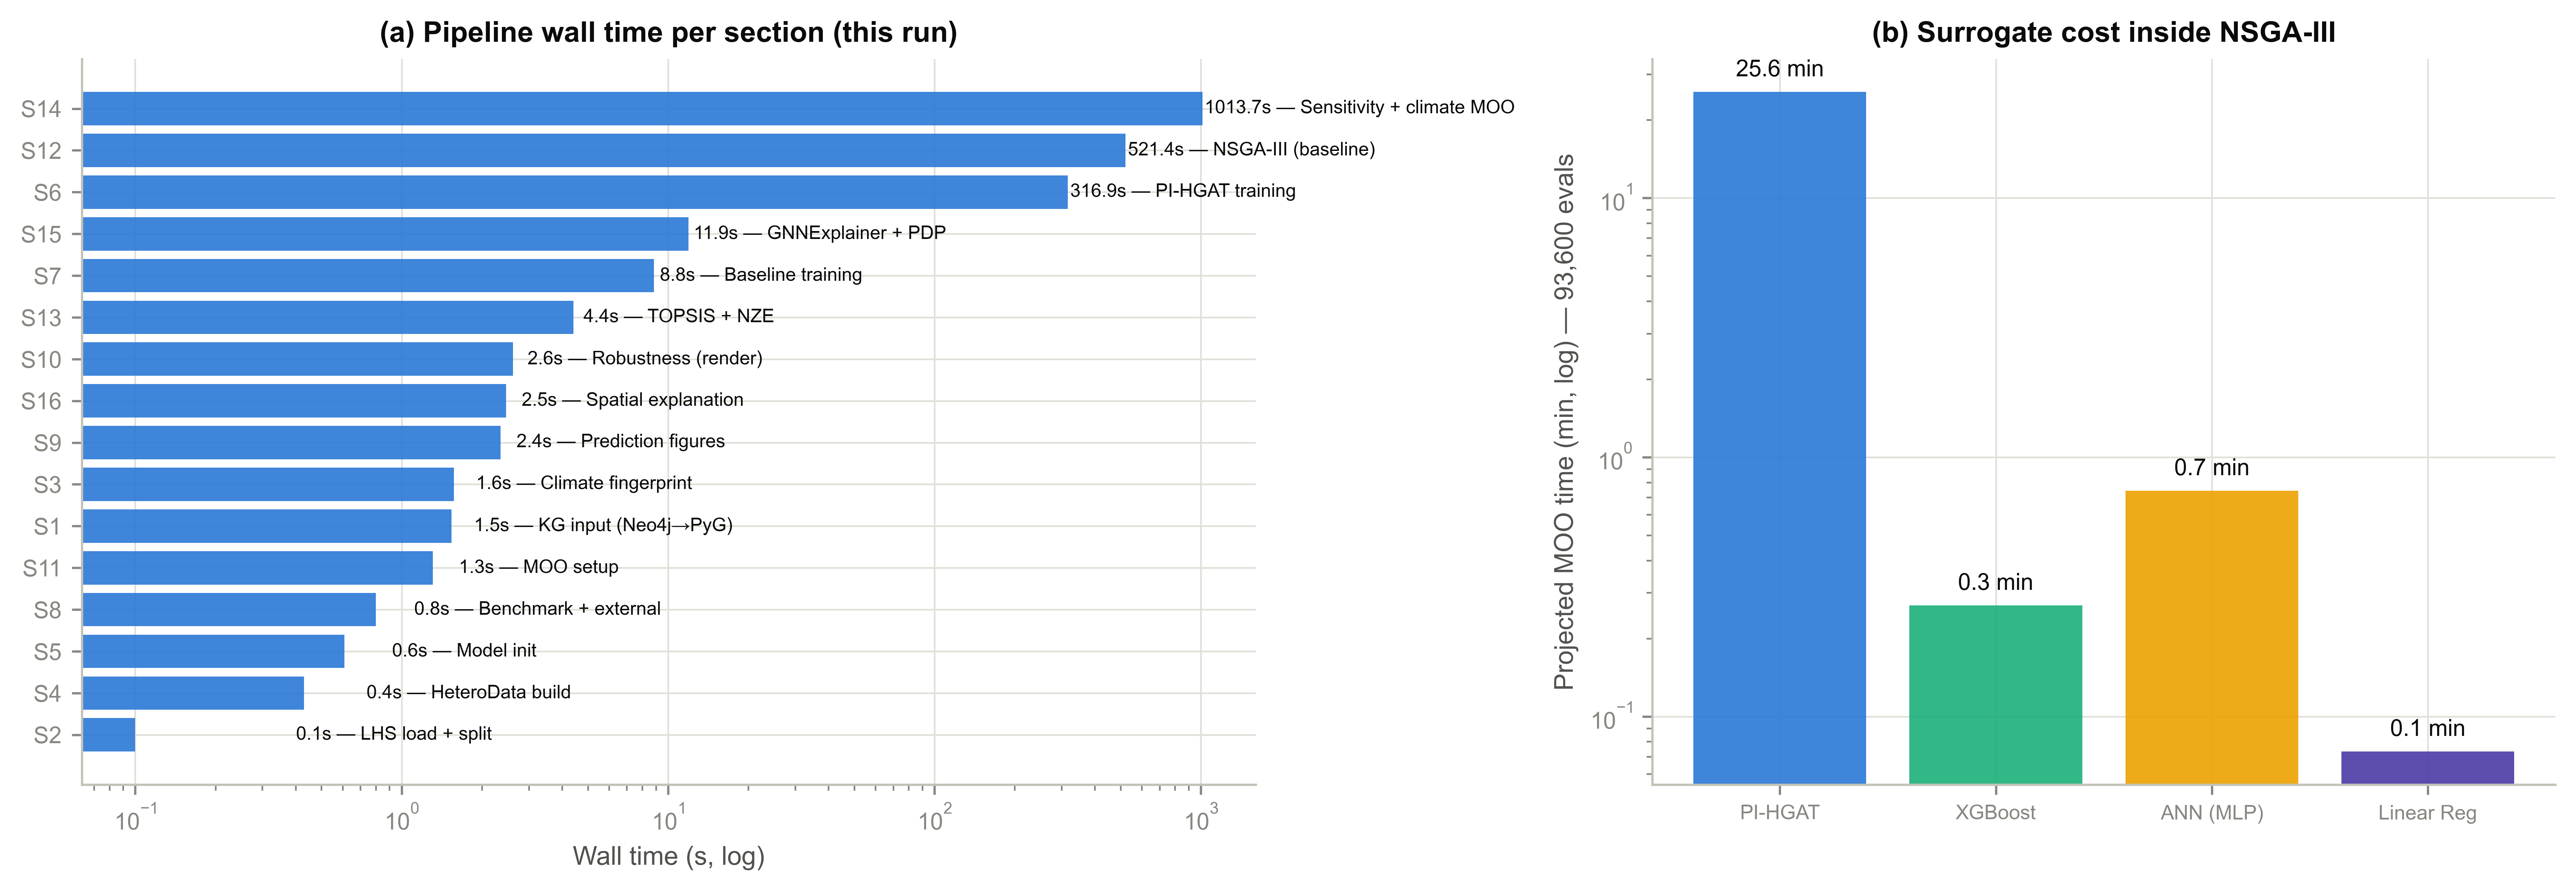
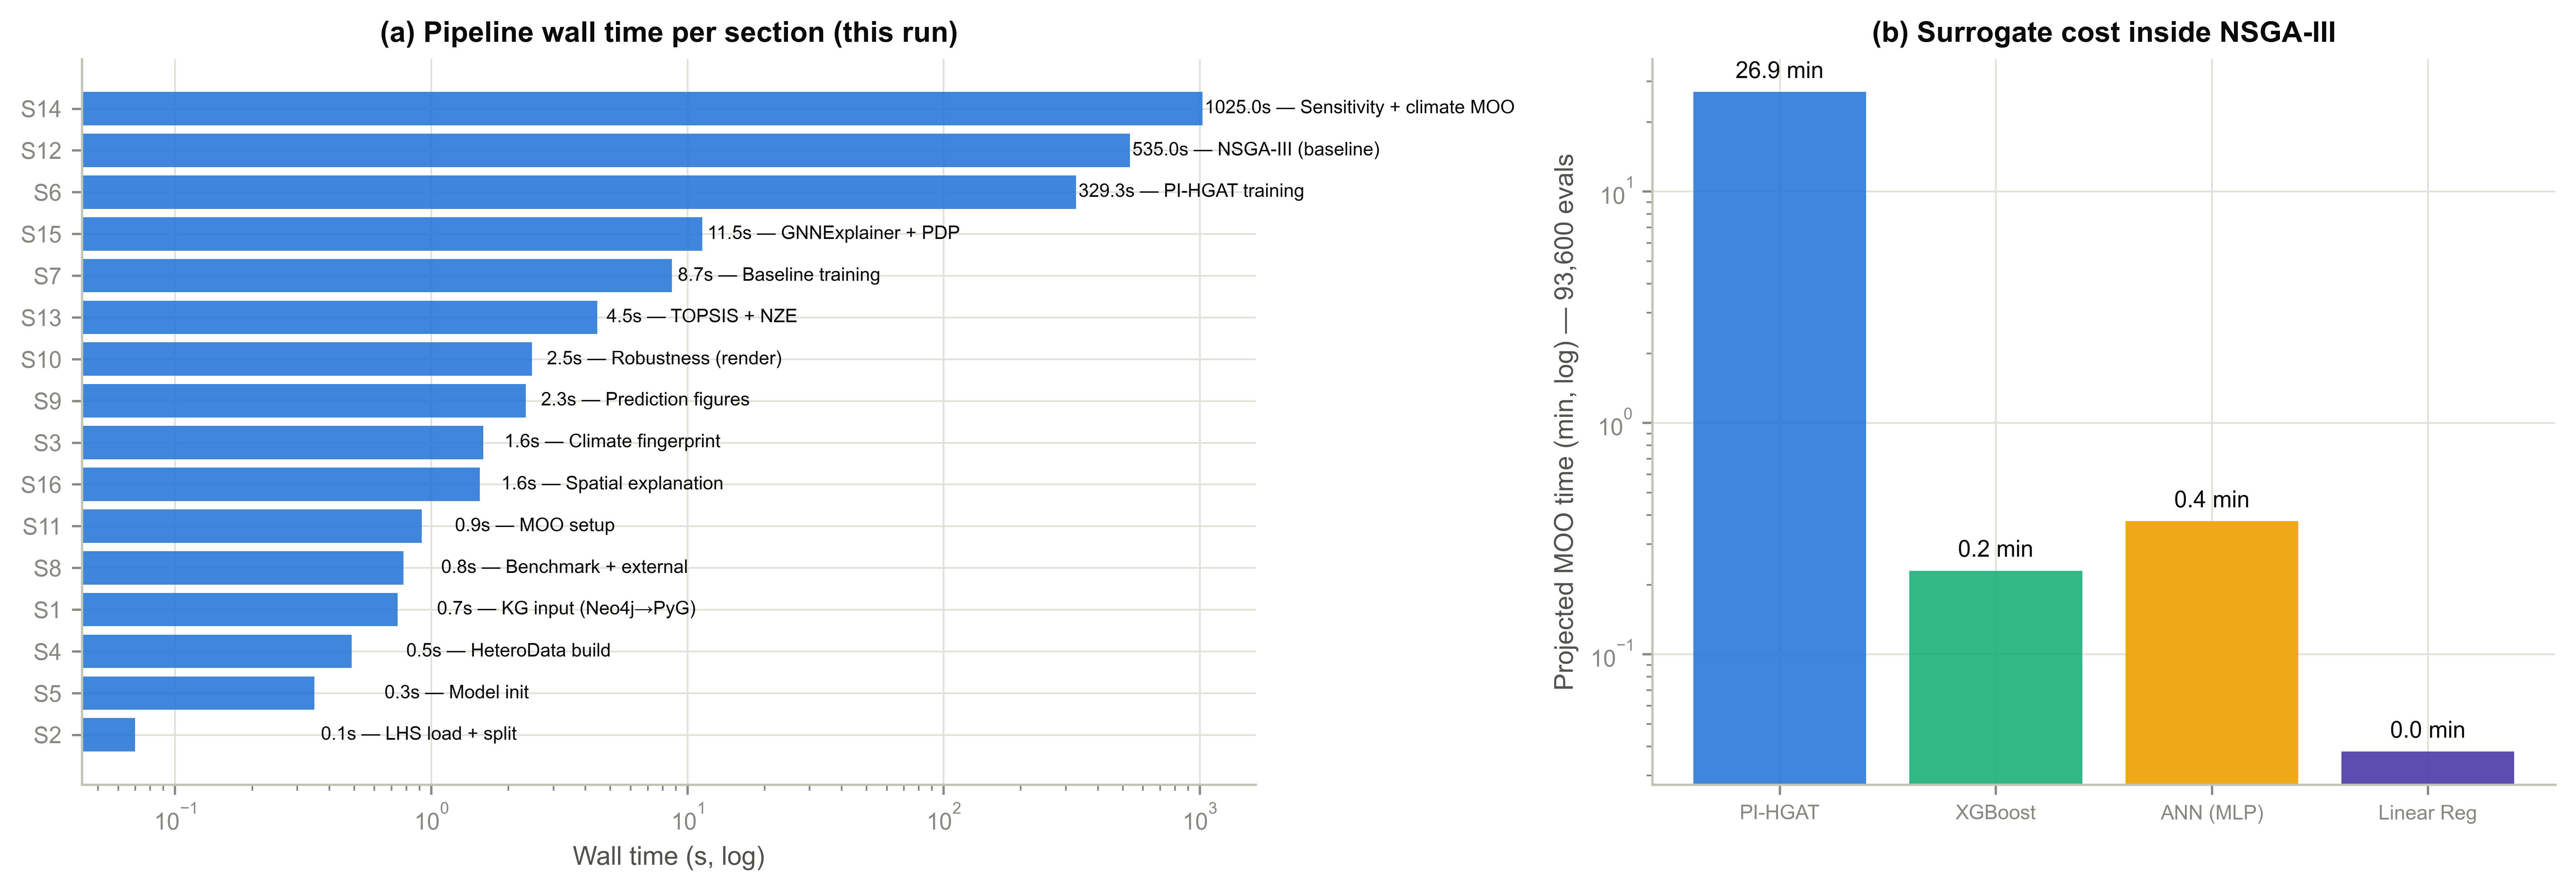
Reviewer-facing polish: professional figure notes, manuscript citation in README
- Replace the 7 internal 'FIGURE SLOT' planning headers with plain figure notes;
  update the framework table in the title cell to the Fig_P* naming scheme.
- README: fill in the manuscript title/authors (ICAE2026 submission); point the
  figures directory entry at the Part-4 manuscript mapping.
- Final validated run committed: 0 errors, benchmark 0.9741 / TOPSIS 88.93 /
  worst-front best 117.6 unchanged; Fig_P3_1 regenerated in the percent rendition.

diff --git a/README.md b/README.md
@@ -1,7 +1,9 @@
 # PI-HGAT: Physics-Informed Heterogeneous Graph Attention Network for Climate-Aware NZEB Retrofit
 
-Reproducibility artifact for the ICAE2026 paper *(title / authors — to be filled in on
-acceptance)*. The pipeline couples a knowledge-graph surrogate of a building energy model
+Reproducibility artifact for the paper **"Decision Support for NZEB Retrofits: Explainable
+Graph Surrogate Models and Life-Cycle Optimization under Climate Change in Vietnam"**
+(Lien Phat Huynh, Anh Tuan Nguyen, Yong Han Ahn — submitted to the 18th International
+Conference on Applied Energy, ICAE 2026, Jeju Island, Korea). The pipeline couples a knowledge-graph surrogate of a building energy model
 with multi-objective retrofit optimization and explainability, evaluated for climate
 extrapolation under CMIP6 2050s/2080s scenarios.
 
@@ -69,7 +71,7 @@ scripts/analysis/                 step3 robustness studies + fig_style (figure s
 scripts/data/                     jEPlus/LHS aggregation
 data/                             inputs: aggregated LHS results, KG (Neo4j JSON),
                                   sourced cost/carbon registry (xlsx), weather (EPW), baseline E+ output
-results/figures/                  all paper figures (PNG + PDF)
+results/figures/                  all figures (PNG + PDF); manuscript mapping in notebook Part 4
 results/*.csv                     benchmark / robustness / Pareto / compute-cost tables
 best_hgat_v2.pt                   trained surrogate checkpoint
 ```